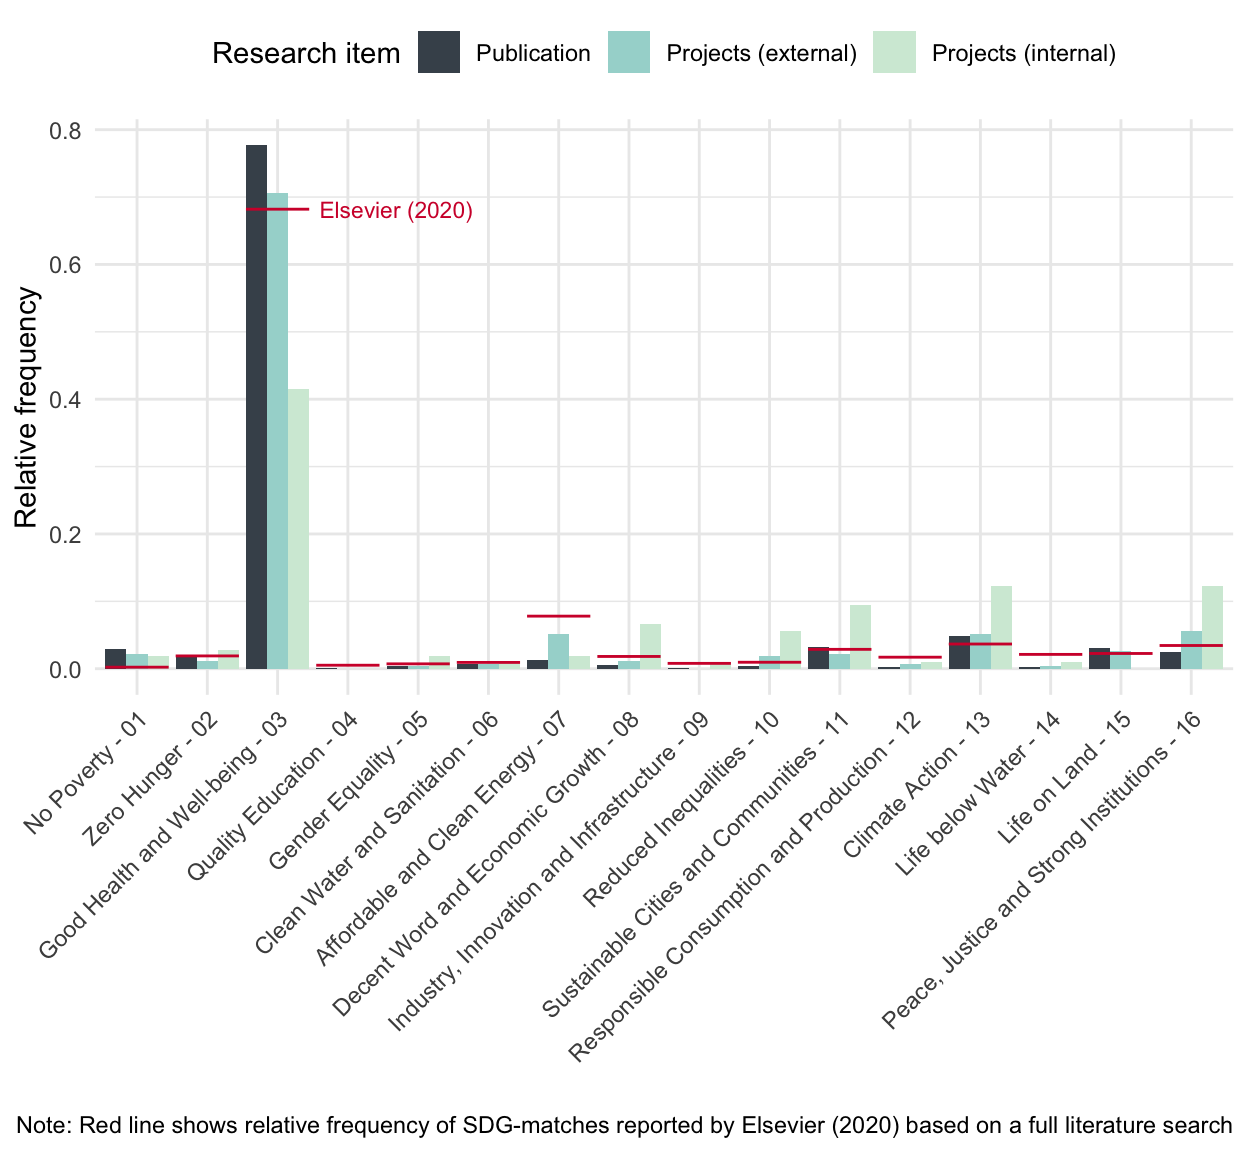
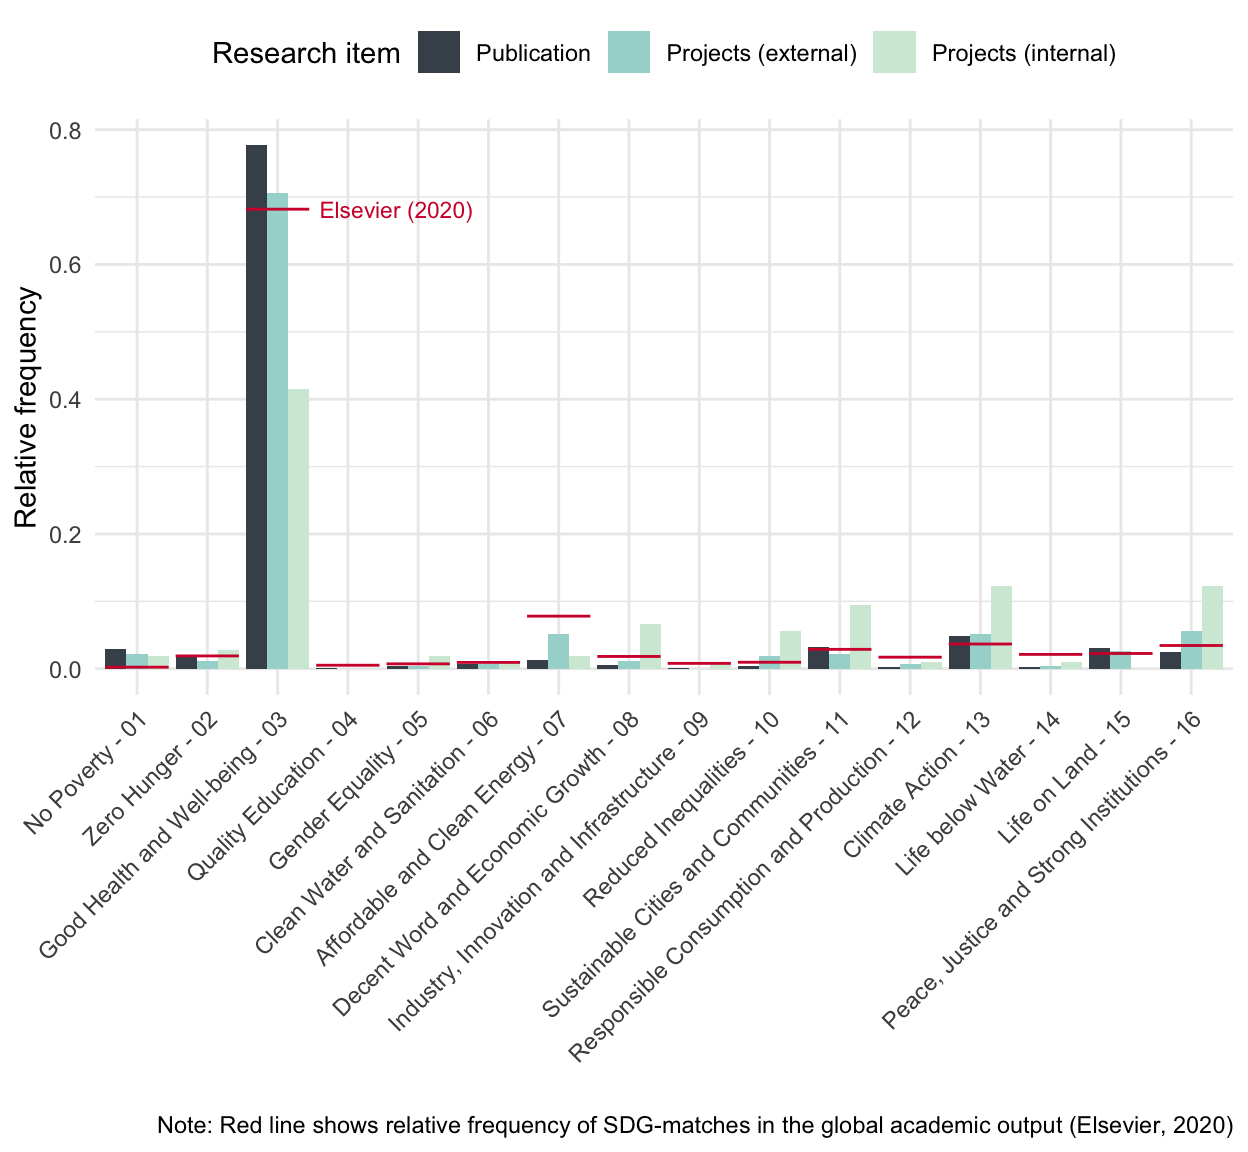
update...

Changed region(s): [[0.0, 0.9688, 1.0, 1.0]]

diff --git a/report.html b/report.html
@@ -2093,9 +2093,9 @@ code span.wa { color: #5e5e5e; font-style: italic; } /* Warning */
 <p>As a consequence, the past years have seen the development of new procedures to monitor the educational and research contributions of higher-education institutions to the Sustainable Development Goals (SDGs). These approaches have been so far spearheaded by for-profit organizations with methodologies that are only partly publicly available.</p>
 <p>The <a href="https://www.unibas.ch/en/University/Administration-Services/General-Secretariat/Sustainability/Team.html">Sustainability Office</a> and the <a href="https://psychologie.unibas.ch/de/fakultaet/abteilungen/cognitive-and-decision-sciences-305/">Center for Cognitive and Decision Sciences</a> of the University of Basel developed a partnership to conduct an overview of the University of Basel’s contributions to the Sustainable Development Goals (SDGs) while making results and methodology publicly available.</p>
 <h2 id="methods">Methods</h2>
-<p>The approach consisted of using established search queries to identify University of Basel’s research output related to the United Nations’ Sustainable Development Goals (SDGs).</p>
-<p>The search queries reported below stemmed from Elsevier (Jayabalasingham, Boverhof, Agnew &amp; Klein, 2019) and text search was implemented in <em>R</em> (R Core Team, 2021) using the <em>corpustools</em> package (Welbers &amp; van Atteveldt, 2021). We also conducted analysis using alternative queries from the <a href="https://aurora-network.global/project/sdg-analysis-bibliometrics-relevance/">Aurora </a> network but these provide considerably fewer matches overall and are not further discussed here.</p>
-<p>The Sustainability Office supplied data on the University of Basel’s research output from two internal databases (i.e., Research Database and the Grants Office database). These data consisted of information on academic <em>publications</em> (e.g., auhors, title, doi) and <em>projects</em> (e.g., PI, title, abstract, funding source) involving University of Basel’s academic staff. The research database did not include abstracts for the publications, so these were retrieved using the Scopus API and the <em>rscopus</em> package (Muschelli, 2019). The databases refer to several organizational units but labels differ across time and databases. Consequently, team members categorized organizational units manually.</p>
+<p>The approach consisted of using text-mining techniques with established search queries to identify University of Basel’s research output related to the United Nations’ Sustainable Development Goals (SDGs).</p>
+<p>The search queries reported below stemmed from Elsevier (<a href="https://data.mendeley.com/datasets/87txkw7khs/1">Jayabalasingham, Boverhof, Agnew &amp; Klein, 2019</a>) and text search was implemented in <em>R</em> (R Core Team, 2021) using the <em>corpustools</em> package (Welbers &amp; van Atteveldt, 2021). We also conducted analysis using alternative queries from the <a href="https://aurora-network.global/project/sdg-analysis-bibliometrics-relevance/">Aurora </a> network but these provide considerably fewer matches overall and are not presented here (see section <em>Limitations and Outlook</em> below). The analyses focus on only 16 of the 17 SGDs, because the SDG 17, <em>“Partnerships for the goals”</em>, can be regarded as a meta-goal for implementing the SDGs and is not associated with dedicated search queries (cf. Jayabalasingham et al., 2020).</p>
+<p>The Sustainability Office supplied data on the University of Basel’s research output from two internal databases (i.e., Research Database and the Grants Office database). These data consisted of information on academic <strong>publications</strong> (e.g., auhors, title, doi) and <strong>projects</strong> (e.g., PI, title, abstract, funding source) involving University of Basel’s academic staff. The research database did not include abstracts for the publications, so these were retrieved using the Scopus API and the <em>rscopus</em> package (Muschelli, 2019). The databases refer to several organizational units but labels differ across time and databases. Consequently, team members categorized organizational units manually.</p>
 <p>Only publications and projects that were published or completed from 2010 to 2020 and for which title and abstracts in English were available were included in the analyses. Additional information about the databases and related processing steps is provided in <a href="data.html">Data</a>.</p>
 <h2 id="distribution-of-sdgs">Distribution of SDGs</h2>
 <div class="layout-chunk" data-layout="l-body">
@@ -2103,7 +2103,7 @@ code span.wa { color: #5e5e5e; font-style: italic; } /* Warning */
 </div>
 <p>Of the 18458 <strong>publications</strong> for which a title and abstract were available in English, a total of 5463 (30%) matched at least one of the SDGs. The highest number of matches, 4604, concerned SDG-03, <em>“Good health and well-being”</em>, with the second highest number of matches, with total of 289 publications, concerning SDG-13, <em>“Climate action”</em>.</p>
 <p>A similar pattern was found for <strong>projects</strong>: Out of the 1040 projects for which a title and abstract were available in English, a total of 336 (32%) matched at least one of the SDGs. SDG-03, <em>“Good health and well-being”</em>, received the most matches, with a total of 234 projects. In turn, SDG-16, <em>“Peace, Justice, and Strong Institutions”</em>, and SDG-13, <em>“Climate action”</em>, received about a similar number of matches, with a total of 28 and 27 projects, respectively.</p>
-<p>The figure below shows the relative frequency of outputs dealing with each of the SDGs for publications and projects (further distinguishing between internally- and externally-funded projects). The figure also provides a comparison to the relative frequency of SGDs found by Elsevier based on the global scientific output as represented in the Scopus database <a href="https://www.elsevier.com/__data/assets/pdf_file/0004/1058179/Elsevier-SDG-Report-2020.pdf">(Elsevier, 2020)</a>. Overall, the results suggest that the pattern of SDG-related research at the University of Basel is overall similar to that of the global scientific output, perhaps with a somewhat larger focus on SDG-03, <em>“Good health and well-being”</em> in what concerns publications.</p>
+<p>The figure below shows the relative frequency of outputs dealing with each of the SDGs for publications and projects (further distinguishing between internally- and externally-funded projects). The figure also provides a comparison to the relative frequency of SGDs found by Elsevier based on an literature overview of the global scientific output as represented in the Scopus database (cf., <a href="https://www.elsevier.com/__data/assets/pdf_file/0004/1058179/Elsevier-SDG-Report-2020.pdf">Elsevier, 2020</a>). Overall, the results suggest that the pattern of SDG-related research at the University of Basel is overall similar to that of the global scientific output, perhaps with a somewhat larger focus on SDG-03, <em>“Good health and well-being”</em> in what concerns publications.</p>
 <h3 id="sdg-matches-in-publications-and-projects">SDG-matches in publications and projects</h3>
 <div class="layout-chunk" data-layout="l-body">
 <p><img src="report_files/figure-html5/unnamed-chunk-2-1.png" width="624" /></p>
@@ -2111,19 +2111,22 @@ code span.wa { color: #5e5e5e; font-style: italic; } /* Warning */
 <h2 id="distribution-of-sdgs-by-organizational-unit">Distribution of SDGs by Organizational Unit</h2>
 <p>The figure below shows the distribution of SDG-matches in publications stratified by organizational unit. We do not present results concerning organizational units with fewer than 50 matches nor the data on projects, because the latter involved a small number of matches overall.</p>
 <p>As can be seen below, the amounts of publications with SDG contributions differ somewhat between organizational units but several seem to have a focal contribution to SDG-03, <em>“Good health and well-being”</em>.</p>
-<p>Notably, the organizational units contribute to SDG-03 in different ways. Publications of Swiss Tropical and Public Health Institute were most often identified as contributing to SDG-03 for including the keyword “malaria”, those of the Faculties of Science and Medicine and the Institute for Biomedical Ethics for including the keyword “cancer”, and those of the Faculty of Psychology for including the keyword “mental disorder”.</p>
+<p>Notably, the organizational units contribute to SDG-03 in different ways. Publications of Swiss Tropical and Public Health Institute were most often identified as contributing to SDG-03, <em>“Good health and well-being”</em> for including the keyword “malaria”, those of the Faculties of Science, Faculty of Medicine, and the Institute for Biomedical Ethics for including the keyword “cancer”, and those of the Faculty of Psychology for including the keyword “mental disorder”. Consequently, while all these organizational units seem to contribute to SDG-03, <em>“Good health and well-being”</em>, they have clearly different research <em>foci</em>.</p>
 <h3 id="sdg-matches-in-publications-by-organizational-unit">SDG-matches in publications by organizational unit</h3>
 <div class="layout-chunk" data-layout="l-body">
 <p><img src="report_files/figure-html5/unnamed-chunk-3-1.png" width="624" /></p>
 </div>
-<h2 id="limitations">Limitations</h2>
+<h2 id="limitations-and-outlook">Limitations and Outlook</h2>
 <ul>
-<li><p>data</p></li>
-<li><p>methods</p></li>
-<li><p>comparison</p></li>
+<li><p><strong>Representativeness of the data</strong>. The results above are based on a subset of the academic output of the University of Basel for which necessary information was available for analysis (e.g., titles and abstracts in English). As a consequence, the results may not be representative of the scientific production of the University of Basel. The development of search queries applicable to other languages (e.g., German) and availability of additional information (e.g., full-text) could be helpful in obtaining a yet more comprehensive view of the contributions of the University of Basel to the SDGs.</p></li>
+<li><p><strong>Search queries</strong>. The analyses above rely on a specific set of text queries that have been used in past work (<a href="https://www.elsevier.com/__data/assets/pdf_file/0004/1058179/Elsevier-SDG-Report-2020.pdf">Elsevier, 2020</a>) but whose validity and usefulness is still under scrutiny (e.g., <a href="http://doi.org/10.1016/j.dib.2021.106731">Bordignon, 2021</a>). We conducted additional analyses using alternative queries (i.e., <a href="https://github.com/Aurora-Network-Global/sdg-queries">Aurora</a>), but these generate considerably fewer matches, which makes overall analysis and interpretation difficult. Future work may want to use the methodology proposed above to investigate the role of different search queries systematically.</p></li>
+<li><p><strong>Limited comparisons</strong>. The analyses above provide a limited set of comparisons. For example, we offer no direct comparison between the University of Basel and other Swiss or international higher-education institutions either in terms of an overall profile (e.g., relative contribution to the different SDGs), nor in the absolute contributions (e.g., number or publications). Future work could use similar methodology using publication data from other higher-education institutions to provide a more direct comparison between institutions.</p></li>
 </ul>
-<h2 id="outlook">Outlook</h2>
+<h2 id="conclusion">Conclusion</h2>
+<p>The University of Basel’s research output shows considerable contributions to the United Nations’ Sustainable Development Goals (SDGs), with an overall profile that matches the global academic production (<a href="https://www.elsevier.com/__data/assets/pdf_file/0004/1058179/Elsevier-SDG-Report-2020.pdf">Elsevier, 2020</a>).</p>
+<p>Further work is necessary to better understand the nature of the University of Basel’s contributions to the SDGs, for example, by directly comparing it to other Swiss and international higher-education institutions.</p>
 <h2 id="references">References</h2>
+<p>Bordignon, F. (2021). Dataset of search queries to map scientific publications to the UN sustainable development goals. Data in Brief, 34, 106731. <a href="http://doi.org/10.1016/j.dib.2021.106731">http://doi.org/10.1016/j.dib.2021.106731</a></p>
 <p>Elsevier (2020). The Power of Data to Advance the SDGs: Mapping Research for the Sustainable Development Goals. <a href="https://www.elsevier.com/__data/assets/pdf_file/0004/1058179/Elsevier-SDG-Report-2020.pdf">https://www.elsevier.com</a></p>
 <p>Jayabalasingham, B., Boverhof, R., Agnew, K., &amp; Klein, L. (2019). Identifying research supporting the United Nations sustainable development goals. Mendeley Data. <a href="https://data.mendeley.com/datasets/87txkw7khs/1">http://dx.doi.org/10.17632/87txkw7khs.1</a></p>
 <p>Muschelli, J. (2019). rscopus. R package version 0.6.6. <a href="https://cran.r-project.org/web/packages/rscopus/">https://CRAN.R-project.org/package=rscopus</a></p>

diff --git a/hackathon.html b/hackathon.html
@@ -2089,9 +2089,6 @@ code span.wa { color: #5e5e5e; font-style: italic; } /* Warning */
 <p>The Center for Cognitive and Decision Sciences (CDS) coordinated a collaborative project involving several CDS members and MSc students associated with the center as part of its mission to train MSc students in data analytics (see <a href="https://psychologie.unibas.ch/de/fakultaet/abteilungen/cognitive-and-decision-sciences-305/msc-project/">cds.unibas.ch</a> for more information). The initiative was supported by <a href="https://vorlesungsverzeichnis.unibas.ch/de/home?id=255075">IMPULS</a>.</p>
 <p>Dr. Dirk Wulff and Prof. Dr. Rui Mata coordinated the project and Dr. Dirk Wulff conducted all data preprocessing and setup for the hackathons (thank you!!!). The project consisted of a series of planning <a href="https://psychologie.unibas.ch/de/fakultaet/abteilungen/cognitive-and-decision-sciences-305/events/">sessions</a> and two collaborative <a href="hackathon.html">hackathons</a> described below. Resources related to the hackathons are available on this <a href="https://github.com/cdsbasel/SDG_hackathon"><b>Github repository</b></a>.</p>
 <h2 id="hackathons">Hackathons</h2>
-<p>Participants (by grouping and alphabetical order of surname):</p>
-<p><strong>MSc Students</strong>: Nina Frings, Sophia Prix</p>
-<p><strong>CDS Members</strong>: Samuel Aeschbach, Alexandra Bagaini, Yun-Rui Liu, Rui Mata, Gayoung Son, Dirk Wulff</p>
 <h3 id="part-i---data-visualization-april-14th-2021">Part I - Data Visualization (April 14th, 2021)</h3>
 <h4 id="goal">Goal</h4>
 <p>The goal of the first hackathon part is to produce three quality visualizations illustrating…</p>
@@ -2107,6 +2104,7 @@ code span.wa { color: #5e5e5e; font-style: italic; } /* Warning */
 <li>Pull before you Push.</li>
 </ol>
 <h3 id="part-ii---reporting-april-29th-2021">Part II - Reporting (April 29th, 2021)</h3>
+<p><strong>Participants</strong>: Nina Frings, Sophia Prix, Samuel Aeschbach, Alexandra Bagaini, Yun-Rui Liu, Rui Mata, Gayoung Son, Dirk Wulff</p>
 <h4 id="goal-1">Goal</h4>
 <p>The goal of the second hackathon part is to produce a report partly based on the visualizations produced in the first hackathon using R Markdown, in particular those concerning the distribution of SDG-matches overall and by organizational unit.</p>
 <h4 id="rules-1">Rules</h4>
